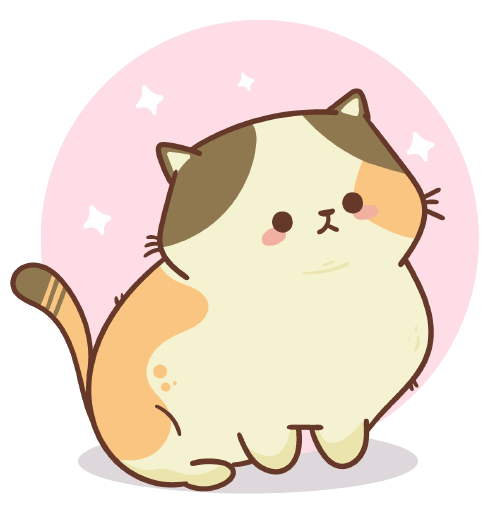
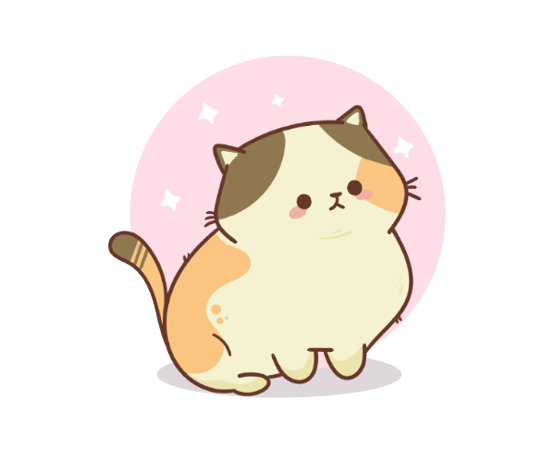
feat: 2023-06-14 0120 mainPage Css Modify

diff --git a/frontend/src/components/MainSection/beauty/MainBeauty.module.css b/frontend/src/components/MainSection/beauty/MainBeauty.module.css
@@ -95,50 +95,97 @@
 }
 
 
-@media (max-width: 967px) {
+/* @media (max-width: 967px) { */
+@media (max-width: 1024px) {
+  .wrap {
+    min-height: auto;
+  }
+  .wrapCol:nth-of-type(1) {
+    flex: auto;
+    width: 100%;
+  }
   .wrapLeft {
     margin: auto;
     max-width: 570px;
     text-align: center;
   }
-
   .wrapLeft h1 {
     text-align: left;
     max-width: 450px;
     margin: 0 auto 1.5rem;
   }
-
   .wrapLeft p {
     margin: auto;
   }
-
   .wrapRightTop {
     width: 100%;
     height: 300px;
     margin-top: 3rem;
     min-width: 0px;
   }
-
   .wrapRightTop img:nth-of-type(1) {
     top: 0px;
   }
-  
   .wrapRightTop img:nth-of-type(2) {
     top: 80px;
   }
-
   .wrapRightBottom {
     width: 100%;
     height: 270px;
     min-width: 0px;
   }
-
   .wrapRightBottom img:nth-of-type(1) {
     top: -60px;
   }
-  
   .wrapRightBottom img:nth-of-type(2) {
     top: 30px;
   }
+  .beautyImg {
+    /* width: 170px; */
+    /* height: 170px; */
+  }
+}
 
+@media (max-width: 576px) {
+  .wrapCol:nth-of-type(1) {
+    min-width: auto;
+    flex: auto;
+  }
+  .wrapLeft h1 {
+    text-align: center;
+    margin-bottom: 1rem;
+  }
+  .wrapLeft p {
+    font-size: 1.3rem;
+  }
+  .wrapLeft button {
+    margin-top: 1rem;
+    height: 90px;
+    border-radius: 0;
+  }
+  .wrapRightTop {
+    margin-top: 2rem;
+    height: 250px;
+  }
+  .wrapRightBottom {
+    height: 200px;
+  }
+  .beautyImg{
+    width: 150px;
+    height: 150px;
+  }
+  .beautyImg:nth-of-type(1) {
+    right: 5px;
+  }
+  .beautyImg:nth-of-type(2) {
+    top: 50px;
+    left: 20px;
+  }
+  .beautyImg:nth-of-type(3) {
+    right: 5px;
+  }
+  .beautyImg:nth-of-type(4) {
+    top: 0px;
+    left: 20px;
+  }
 }

diff --git a/frontend/src/components/MainSection/home/MainHome.module.css b/frontend/src/components/MainSection/home/MainHome.module.css
@@ -2,9 +2,7 @@
   min-height: 700px;
   display: flex;
   flex-wrap: wrap;
-  /* background-color: rgb(255, 242, 204); */
-  /* background-color: #BB8F4F; */
-  background-color: #FFF;
+  background-color: var(--main-bg-color);
   align-items: center;
 }
 
@@ -16,15 +14,9 @@
   text-align: right;
 }
 
-.dogImg {
+.dogImg, .catImg {
   width: 500px;
   height: 400px;
-}
-
-.catImg {
-  width: 320px;
-  height: 350px;
-  margin: 1rem 6rem 0 0;
 }
 
 .wrapText {
@@ -69,5 +61,47 @@
   }
   100% {
     opacity: 0.3;
+  }
+}
+
+@media (min-width: 576px) and (max-width: 1024px) {
+  .wrap {
+    min-height: 500px;
+  }
+  .wrapCol {
+    width: 50%;
+  }
+  .dogImg, .catImg {
+    width: 400px;
+    height: 300px;
+  }
+  .wrapCol .wrapText {
+    margin-left: 0px;
+  }
+}
+
+@media (max-width: 576px) {
+  .wrap {
+    min-height: 500px;
+  }
+  .wrapCol {
+    flex: auto;
+  }
+  .wrapImg {
+    text-align: center;
+  }
+  .dogImg, .catImg {
+    width: 100%;
+    height: 300px;
+  }
+
+  .wrapText {
+    margin: 0;
+  }
+  .wrapText h1 {
+    font-size: 2.4rem;
+  }
+  .wrapText p {
+    margin: 0
   }
 }

diff --git a/frontend/src/components/MainSection/hoteling/MainHoteling.module.css b/frontend/src/components/MainSection/hoteling/MainHoteling.module.css
@@ -112,13 +112,26 @@
 @media (max-width: 576px) {
   .wrapCol h1,
   .wrapCol p {
-    width: 80%;
+    width: 100%;
   }
-
+  .wrapCol h1 {
+    text-align: center;
+    margin: 1rem auto;
+  }
+  .wrapCol p {
+    font-size: 1.3rem;
+    width: 95%;
+  }
+  .wrapCol:nth-of-type(2) {
+    width: 100%;
+  }
+  .wrapCol .wrapImg:nth-of-type(3) {
+    height: 100px;
+  }
   .wrapImg {
-    min-width: 400px;
+    /* min-width: 400px; */
+    min-width: auto;
   }
-
   .wrapImg:nth-of-type(1) img,
   .wrapImg:nth-of-type(3) img {
     width: 280px;
@@ -128,16 +141,16 @@
     width: 250px;
     height: 200px;
   }
-
   .wrapImg:nth-of-type(1) img {
-    left: 60px;
+    top: 20px;
+    left: 45px;
   }
-  
   .wrapImg:nth-of-type(2) img {
-    right: 100px;
+    top: -70px;
+    right: 60px;
   }
-  
   .wrapImg:nth-of-type(3) img {
-    left: 60px;
+    top: -170px;
+    left: 45px;
   }
 }

diff --git a/frontend/src/components/MainSection/home/MainHome.tsx b/frontend/src/components/MainSection/home/MainHome.tsx
@@ -22,6 +22,9 @@ export default function MainHome() {
       <div className={style.wrapCol}>
         <div className={style.wrapImg}>
           <img src={imgChange ? DogImage : CatImage} className={`${style.animatedImage} ${imgChange ? style.dogImg : style.catImg}`} alt='mainAnimalImage'/>
+          {/* {imgChange ? 
+          <img src={DogImage} alt='test' className={style.dogImg} /> :
+          <img src={CatImage} alt='test' className={style.catImg} />} */}
           <div className={style.imgSource}>
             <a href="https://kr.freepik.com/free-vector/happy-pomeranian-dog-character-hand-drawn-cartoon-art-illustration_17303376.htm#page=2&query=Canis lupus familiaris&position=30&from_view=search&track=ais">작가 mamewmy</a>
             <a href="https://kr.freepik.com/free-vector/hand-drawn-kawaii-objects-collection_26230952.htm#from_view=detail_serie">Freepik</a>

diff --git a/frontend/src/components/MainSection/hotel/MainHotel.module.css b/frontend/src/components/MainSection/hotel/MainHotel.module.css
@@ -233,16 +233,33 @@
     margin: auto;
   }
 }
-
-@media (max-width: 550px) {
-  .box {
+@media (max-width: 576px) {
+  .wrap {
+    min-height: 650px;
+  }
+  .wrapLeft {
     width: 100%;
   }
+  .wrapLeft h1 {
+    text-align: center;
+    margin-bottom: 1rem;
+  }
+  .wrapLeft p {
+    font-size: 1.3rem;
+    width: 90%;
+    margin: auto;
+  }
+  .box {
+    width: 100%;
+    border-left: none;
+    border-right: none;
+  }
+}
 
+@media (max-width: 550px) {
   .boxRight .boxFlex:nth-of-type(1) > div:nth-of-type(1) {
     width: 80%;
   }
-
   .boxRight .boxFlex:nth-of-type(1) > div:nth-of-type(2) {
     width: 20%;
   }
@@ -252,11 +269,9 @@
   .wrapCol, .wrapRight {
     min-width: 390px;
   }
-
   .boxLeft .boxFlex:nth-of-type(1) > div:nth-of-type(1) {
     width: 80%;
   }
-
   .boxLeft .boxFlex:nth-of-type(1) > div:nth-of-type(2) {
     width: 20%;
   }

diff --git a/frontend/src/components/MainSection/mate/MainMate.module.css b/frontend/src/components/MainSection/mate/MainMate.module.css
@@ -1,7 +1,5 @@
 .wrap {
-  /* background-color: #E5FFD4; */
-  /* background: rgba(187, 143, 79, 0.25); */
-  background-color: #FFF;
+  background-color: var(--main-bg-color);
   min-height: 700px;
   padding: 2rem 0 4rem;
   display: flex;
@@ -10,10 +8,7 @@
 }
 
 .body {
-  /* width: 70%; */
   margin: auto;
-  /* line-height: normal; */
-  
 }
 
 .title {
@@ -25,8 +20,6 @@
 .subTitle {
   font-size: 2rem;
   max-width: 700px;
-  /* margin-left: 1rem; */
-  /* margin-top: 0px; */
   margin: 0px 0px 2rem 1rem;
 }
 
@@ -51,9 +44,18 @@
 }
 
 @media (max-width: 658px) {
-  /* .wrapCard:nth-child(3), */
   .wrapCard > div:nth-child(3),
   .wrapCard > div:nth-child(4) {
     display: none;
+  }
+}
+
+@media (max-width: 576px) {
+  .wrap {
+    padding-bottom: 0px;
+  }
+  .subTitle {
+    font-size: 1.3rem;
+    width: 80%;
   }
 }

diff --git a/frontend/src/components/MainSection/beauty/MainBeauty.tsx b/frontend/src/components/MainSection/beauty/MainBeauty.tsx
@@ -12,7 +12,7 @@ export default function MainBeauty() {
         <div className={style.wrapLeft}>
           <h1>Beauty</h1>
           <p>Find a store that gives beauty to your pet more than other friends!</p>
-          <button>
+          <button type='button'>
             Find a Beauty Shop
           </button>
         </div>

diff --git a/frontend/src/components/MainSection/food/MainFood.module.css b/frontend/src/components/MainSection/food/MainFood.module.css
@@ -110,6 +110,14 @@
   animation: marqueeClone 30s linear infinite;
 }
 
+@media (max-width: 576px) {
+  .wrapCol:nth-of-type(1) h1 {
+    margin-bottom: 0;
+  }
+  .wrapCol:nth-of-type(2) > div {
+    margin: 0;
+  }
+}
 
 @media (max-width: 520px) {
   .wrapCol {

diff --git a/frontend/src/components/MainSection/hospital/MainHospital.module.css b/frontend/src/components/MainSection/hospital/MainHospital.module.css
@@ -59,3 +59,13 @@
 .imgSource {
   display: none;
 }
+
+@media (max-width: 576px) {
+  .title {
+    margin-top: 2rem;
+    margin-bottom: 1rem;
+  }
+  .title p {
+    font-size: 1.3rem;
+  }
+}
